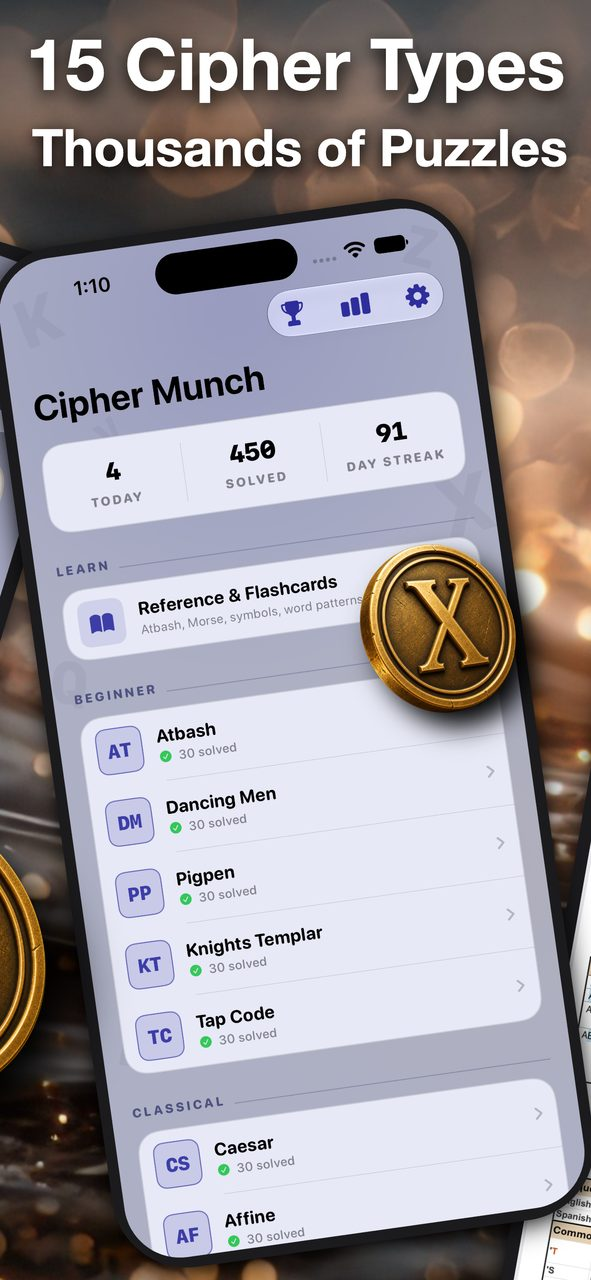
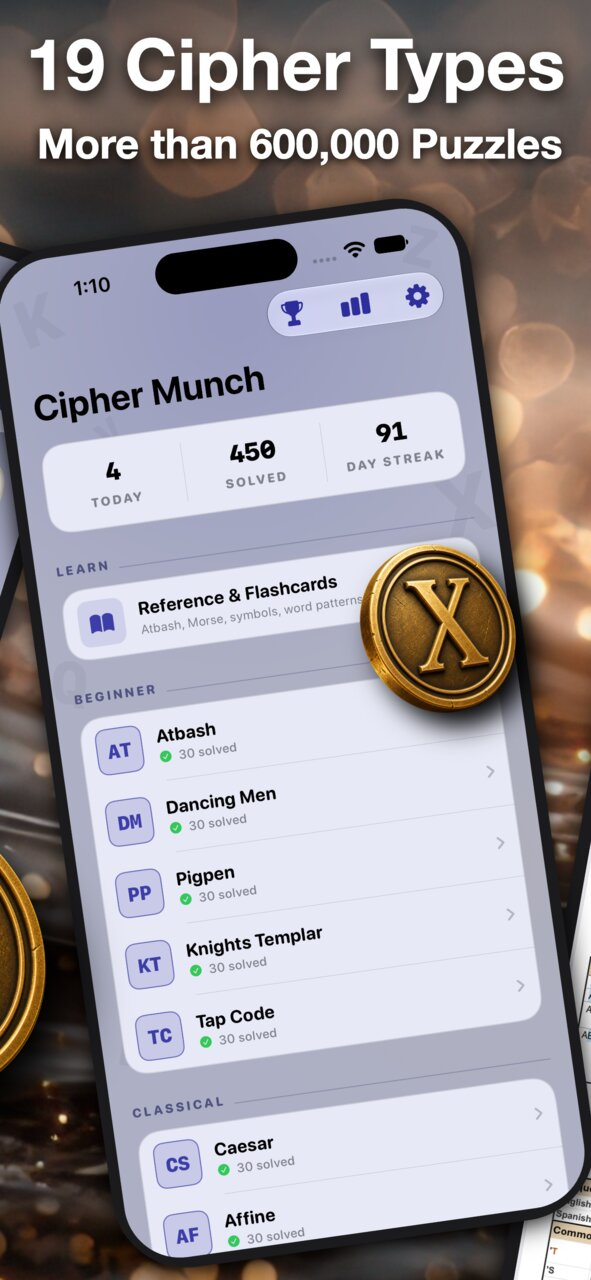
Feature: new menu screenshot and 19 cipher types / 600,000+ puzzles copy

Changed region(s): [[0.0609, 0.0938, 0.9746, 0.1562], [0.0914, 0.0312, 0.1827, 0.0625]]

diff --git a/index.html b/index.html
@@ -4,11 +4,11 @@
   <meta charset="UTF-8" />
   <meta name="viewport" content="width=device-width, initial-scale=1.0" />
   <title>Cipher Munch: Codebusters Practice &amp; Cryptogram Puzzle App</title>
-  <meta name="description" content="Cipher Munch is the cryptogram app built for Science Olympiad Codebusters coaches and students. Practice Aristocrats, Patristocrats, Xenocrypts and 15 cipher types. No ads, works offline, free to start on iPhone, iPad and Mac." />
+  <meta name="description" content="Cipher Munch is the cryptogram app built for Science Olympiad Codebusters coaches and students. Practice Aristocrats, Patristocrats, Xenocrypts and 19 cipher types. No ads, works offline, free to start on iPhone, iPad and Mac." />
   <link rel="canonical" href="https://ciphermunch.com/" />
   <meta property="og:type" content="website" />
   <meta property="og:title" content="Cipher Munch: Codebusters Practice &amp; Cryptogram Puzzle App" />
-  <meta property="og:description" content="The cryptogram app built for Codebusters coaches and students. 15 cipher types, thousands of real quotes, no ads, works offline." />
+  <meta property="og:description" content="The cryptogram app built for Codebusters coaches and students. 19 cipher types, more than 600,000 puzzles, no ads, works offline." />
   <meta property="og:url" content="https://learningplaygroundapps.com/" />
   <meta property="og:image" content="https://learningplaygroundapps.com/assets/img/og-image.jpg" />
   <meta name="twitter:card" content="summary_large_image" />
@@ -61,7 +61,7 @@
         <div>
           <p class="eyebrow">Science Olympiad · Codebusters · Cryptograms</p>
           <h1><span class="decode">Crack the code.</span><br /><span style="color:var(--gold-bright)">Built for Codebusters.</span></h1>
-          <p class="lead">Cipher Munch is the cryptogram practice app designed for <strong>Codebusters coaches and students</strong>, and anyone who loves cracking a good cipher. Solve real quotes across 15 cipher types, dial the helpers up or down as you improve, and watch your solve times drop.</p>
+          <p class="lead">Cipher Munch is the cryptogram practice app designed for <strong>Codebusters coaches and students</strong>, and anyone who loves cracking a good cipher. Solve real quotes across 19 cipher types, dial the helpers up or down as you improve, and watch your solve times drop.</p>
           <div class="hero-ctas">
             <a class="badge-appstore" href="https://apps.apple.com/us/app/cipher-munch/id6773527361" aria-label="Download Cipher Munch on the App Store"><img src="/assets/img/badge-app-store.png" alt="" width="182" height="54" loading="lazy" decoding="async" /></a>
             <a class="badge-store" href="https://play.google.com/store/apps/details?id=com.learningplaygroundapps.ciphermunch" aria-label="Get Cipher Munch on Google Play"><img src="/assets/img/badge-google-play.png" alt="" width="182" height="54" loading="lazy" decoding="async" /></a>
@@ -116,7 +116,7 @@
         <ol class="steps">
           <li class="step reveal"><span class="cell" data-freq="12">C</span>
             <h3>Pick your cipher</h3>
-            <p>Fifteen types, from beginner-friendly Atbash and Pigpen to competition Aristocrats, Patristocrats, and Spanish Xenocrypts.</p>
+            <p>Nineteen types, from beginner-friendly Atbash and Pigpen to competition Aristocrats, Patristocrats, and Spanish Xenocrypts.</p>
           </li>
           <li class="step reveal"><span class="cell" data-freq="8">O</span>
             <h3>Crack real quotes</h3>
@@ -150,8 +150,8 @@
           <figcaption><b>Beginner to expert</b>Helpers you control</figcaption>
         </figure>
         <figure class="shot">
-          <div class="phone"><picture><source srcset="/assets/img/screenshot-3.webp" type="image/webp" /><img loading="lazy" src="/assets/img/screenshot-3.jpg" alt="Cipher Munch menu with 15 cipher types including Aristocrat, Patristocrat, Xenocrypt, Caesar and Pigpen" width="592" height="1280" /></picture></div>
-          <figcaption><b>15 cipher types</b>Thousands of puzzles</figcaption>
+          <div class="phone"><picture><source srcset="/assets/img/screenshot-3.webp" type="image/webp" /><img loading="lazy" src="/assets/img/screenshot-3.jpg" alt="Cipher Munch menu with 19 cipher types including Aristocrat, Patristocrat, Xenocrypt, Caesar and Pigpen" width="592" height="1280" /></picture></div>
+          <figcaption><b>19 cipher types</b>More than 600,000 puzzles</figcaption>
         </figure>
         <figure class="shot">
           <div class="phone"><picture><source srcset="/assets/img/screenshot-4.webp" type="image/webp" /><img loading="lazy" src="/assets/img/screenshot-4.jpg" alt="Built-in cipher reference sheet with alphabets and common word patterns" width="592" height="1280" /></picture></div>
@@ -270,7 +270,7 @@
           </details>
           <details>
             <summary><span class="cell">D</span>Which ciphers are included?</summary>
-            <div><p>Fifteen types: Aristocrat, Aristocrat K1, K2 &amp; K3, Patristocrat K1 &amp; K2, Xenocrypt (Spanish), Caesar, Affine, Vigenère, Atbash, Pigpen, Dancing Men, Knights Templar, and Tap Code. Every puzzle hides a real quote. <a href="/guides/">Browse the guides →</a></p></div>
+            <div><p>Nineteen types: Aristocrat, Aristocrat K1, K2 &amp; K3, Patristocrat K1 &amp; K2, Xenocrypt (Spanish), Caesar, Affine, Vigenère, Porta, Rail Fence, Atbash, ROT13, Pigpen, Dancing Men, Knights Templar, Standard Galactic, and Tap Code. Every puzzle hides a real quote. <a href="/guides/">Browse the guides →</a></p></div>
           </details>
           <details>
             <summary><span class="cell">E</span>Does it have Aristocrats with K1 and K2 keywords?</summary>
@@ -314,7 +314,7 @@
           {"@type":"Question","name":"Is Cipher Munch good for Science Olympiad Codebusters practice?","acceptedAnswer":{"@type":"Answer","text":"Yes: it's designed for exactly that. The cipher formats used in Codebusters (Aristocrats, Patristocrats, Xenocrypts, Caesar, Affine, Atbash, and K1/K2 keyword variants) are all included, with frequency tools, timed stats, and print support for paper-style practice."}},
           {"@type":"Question","name":"Can coaches use Cipher Munch for team practice?","acceptedAnswer":{"@type":"Answer","text":"Coaches print puzzles (with or without frequency tables) to recreate the paper test setup, assign specific cipher types to team members, and have students track their own solve times and accuracy."}},
           {"@type":"Question","name":"Is Cipher Munch free?","acceptedAnswer":{"@type":"Answer","text":"Yes: every cipher type includes a free Starter pack with no time limit, no ads, and no account. When you want more, you can buy a single volume once, subscribe to one cipher, or get All Access."}},
-          {"@type":"Question","name":"Which ciphers are included?","acceptedAnswer":{"@type":"Answer","text":"Fifteen types: Aristocrat, Aristocrat K1, K2 & K3, Patristocrat K1 & K2, Xenocrypt (Spanish), Caesar, Affine, Vigenère, Atbash, Pigpen, Dancing Men, Knights Templar, and Tap Code. Every puzzle hides a real quote."}},
+          {"@type":"Question","name":"Which ciphers are included?","acceptedAnswer":{"@type":"Answer","text":"Nineteen types: Aristocrat, Aristocrat K1, K2 & K3, Patristocrat K1 & K2, Xenocrypt (Spanish), Caesar, Affine, Vigenère, Porta, Rail Fence, Atbash, ROT13, Pigpen, Dancing Men, Knights Templar, Standard Galactic, and Tap Code. Every puzzle hides a real quote."}},
           {"@type":"Question","name":"Does it have Aristocrats with K1 and K2 keywords?","acceptedAnswer":{"@type":"Answer","text":"Yes: dedicated K1 and K2 packs, with the frequency grid arranged the traditional way for each so you learn to spot the keyword where it actually appears."}},
           {"@type":"Question","name":"Can I practice Patristocrats?","acceptedAnswer":{"@type":"Answer","text":"Yes: Patristocrat K1 and K2 packs present letters in 5-letter blocks with no word boundaries, exactly as they appear in competition."}},
           {"@type":"Question","name":"Does Cipher Munch include Xenocrypts (Spanish cryptograms)?","acceptedAnswer":{"@type":"Answer","text":"Yes: Spanish-language Aristocrats on the full 27-letter alphabet including the Ñ, the format used in Science Olympiad Xenocrypt questions."}},
@@ -335,7 +335,7 @@
           <picture class="coin coin-l"><source srcset="/assets/img/coin-keyhole.webp" type="image/webp" /><img loading="lazy" src="/assets/img/coin-keyhole.png" alt="" width="92" height="92" /></picture>
           <picture class="coin coin-r"><source srcset="/assets/img/coin-e.webp" type="image/webp" /><img loading="lazy" src="/assets/img/coin-e.png" alt="" width="92" height="92" /></picture>
           <h2>Your first cipher is waiting</h2>
-          <p>Free Starter packs for all 15 cipher types. No ads, no account, no Wi-Fi needed: just you and the code.</p>
+          <p>Free Starter packs for all 19 cipher types. No ads, no account, no Wi-Fi needed: just you and the code.</p>
           <div class="hero-ctas">
             <a class="badge-appstore" href="https://apps.apple.com/us/app/cipher-munch/id6773527361" aria-label="Download Cipher Munch on the App Store"><img src="/assets/img/badge-app-store.png" alt="" width="182" height="54" loading="lazy" decoding="async" /></a>
             <a class="badge-store" href="https://play.google.com/store/apps/details?id=com.learningplaygroundapps.ciphermunch" aria-label="Get Cipher Munch on Google Play"><img src="/assets/img/badge-google-play.png" alt="" width="182" height="54" loading="lazy" decoding="async" /></a>

diff --git a/guides/cryptogram-app-no-ads-offline/index.html b/guides/cryptogram-app-no-ads-offline/index.html
@@ -69,7 +69,7 @@
 <p>Progress and stats sync through <strong>your own private iCloud</strong>: automatically, with no login, invisible even to the developer. Get a new iPhone, open the app, and your streak, stats, and solved puzzles are already there. Turn it off anytime in iOS Settings if you'd rather stay fully local.</p></div>
 
 <h2>What "free" actually means here</h2>
-<p>Every one of the fifteen cipher types includes a <strong>free Starter pack</strong>: enough for genuine daily practice, not a five-puzzle teaser. You also get <strong>10 free hints a day</strong>. When you want more volume, the upgrades are honest: buy one volume outright (a one-time purchase, yours forever), subscribe to a single cipher type, or get All Access. No energy meters, no timers, no "watch an ad to continue." You will never be interrupted mid-solve, because there is nothing in the app whose job is to interrupt you.</p>
+<p>Every one of the nineteen cipher types includes a <strong>free Starter pack</strong>: enough for genuine daily practice, not a five-puzzle teaser. You also get <strong>10 free hints a day</strong>. When you want more volume, the upgrades are honest: buy one volume outright (a one-time purchase, yours forever), subscribe to a single cipher type, or get All Access. No energy meters, no timers, no "watch an ad to continue." You will never be interrupted mid-solve, because there is nothing in the app whose job is to interrupt you.</p>
 
 <div class="article-cta">
   <h2 style="font-family:var(--font-display);font-weight:620;font-size:1.6rem;margin-bottom:10px;">No ads. No account. No Wi-Fi needed.</h2>

diff --git a/guides/cryptograms-for-beginners/index.html b/guides/cryptograms-for-beginners/index.html
@@ -50,7 +50,7 @@
     </div>
     <article class="article wrap">
 
-<p>The mistake most beginners make is starting with a hard puzzle, staring at it, and deciding cryptograms aren't for them. The fix is sequencing: start where the code is visible, and add difficulty only as each level starts to feel easy. Cipher Munch's fifteen cipher types happen to form a perfect beginner's staircase.</p>
+<p>The mistake most beginners make is starting with a hard puzzle, staring at it, and deciding cryptograms aren't for them. The fix is sequencing: start where the code is visible, and add difficulty only as each level starts to feel easy. Cipher Munch's nineteen cipher types happen to form a perfect beginner's staircase.</p>
 
 <h2>Days 1–2: visual ciphers, table on</h2>
 <p>Start with <strong>Pigpen</strong> or the <strong>Dancing Men</strong> (the stick-figure cipher from Sherlock Holmes). Each symbol maps to one letter, and the app shows you the whole key:</p>

diff --git a/_tools/gen_guides.py b/_tools/gen_guides.py
@@ -309,7 +309,7 @@ G("cryptograms-for-beginners",
   cta_sub="Free Starter packs, 10 free hints a day, and helpers that make the first puzzle a joy instead of a wall.",
   related=["letter-frequency-analysis", "improve-cryptogram-solving-speed", "printable-cryptogram-puzzles"],
   body="""
-<p>The mistake most beginners make is starting with a hard puzzle, staring at it, and deciding cryptograms aren't for them. The fix is sequencing: start where the code is visible, and add difficulty only as each level starts to feel easy. Cipher Munch's fifteen cipher types happen to form a perfect beginner's staircase.</p>
+<p>The mistake most beginners make is starting with a hard puzzle, staring at it, and deciding cryptograms aren't for them. The fix is sequencing: start where the code is visible, and add difficulty only as each level starts to feel easy. Cipher Munch's nineteen cipher types happen to form a perfect beginner's staircase.</p>
 
 <h2>Days 1–2: visual ciphers, table on</h2>
 <p>Start with <strong>Pigpen</strong> or the <strong>Dancing Men</strong> (the stick-figure cipher from Sherlock Holmes). Each symbol maps to one letter, and the app shows you the whole key:</p>
@@ -397,7 +397,7 @@ G("cryptogram-app-no-ads-offline",
 <p>Progress and stats sync through <strong>your own private iCloud</strong>: automatically, with no login, invisible even to the developer. Get a new iPhone, open the app, and your streak, stats, and solved puzzles are already there. Turn it off anytime in iOS Settings if you'd rather stay fully local.</p></div>
 
 <h2>What "free" actually means here</h2>
-<p>Every one of the fifteen cipher types includes a <strong>free Starter pack</strong>: enough for genuine daily practice, not a five-puzzle teaser. You also get <strong>10 free hints a day</strong>. When you want more volume, the upgrades are honest: buy one volume outright (a one-time purchase, yours forever), subscribe to a single cipher type, or get All Access. No energy meters, no timers, no "watch an ad to continue." You will never be interrupted mid-solve, because there is nothing in the app whose job is to interrupt you.</p>
+<p>Every one of the nineteen cipher types includes a <strong>free Starter pack</strong>: enough for genuine daily practice, not a five-puzzle teaser. You also get <strong>10 free hints a day</strong>. When you want more volume, the upgrades are honest: buy one volume outright (a one-time purchase, yours forever), subscribe to a single cipher type, or get All Access. No energy meters, no timers, no "watch an ad to continue." You will never be interrupted mid-solve, because there is nothing in the app whose job is to interrupt you.</p>
 """)
 
 # ---------------------------------------------------------------- guide 9
